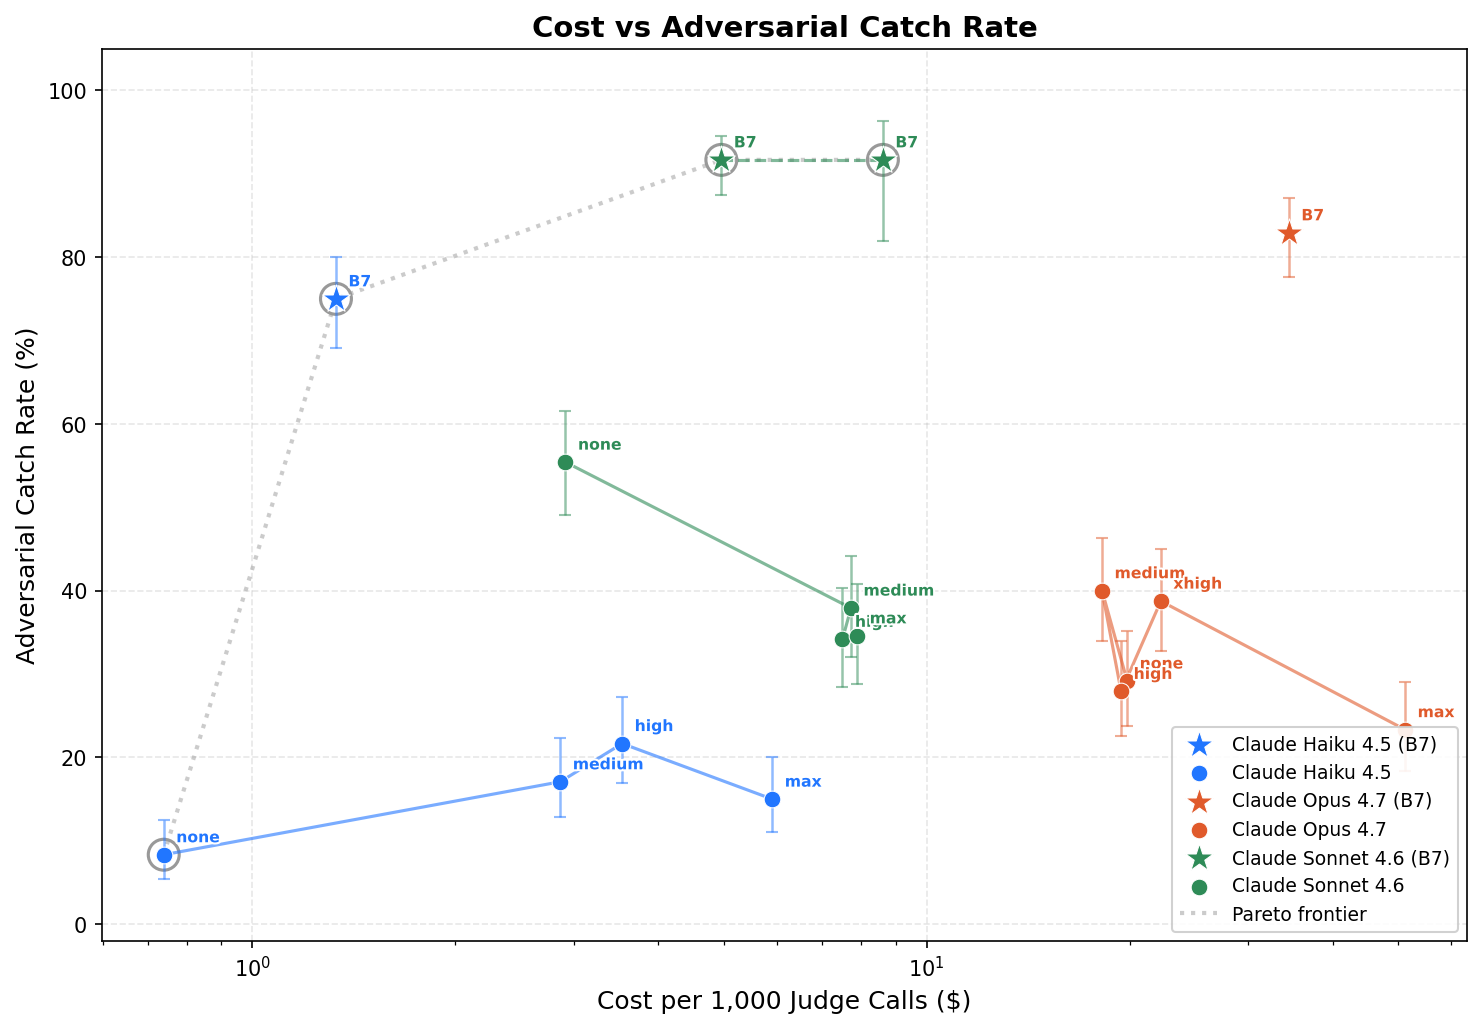
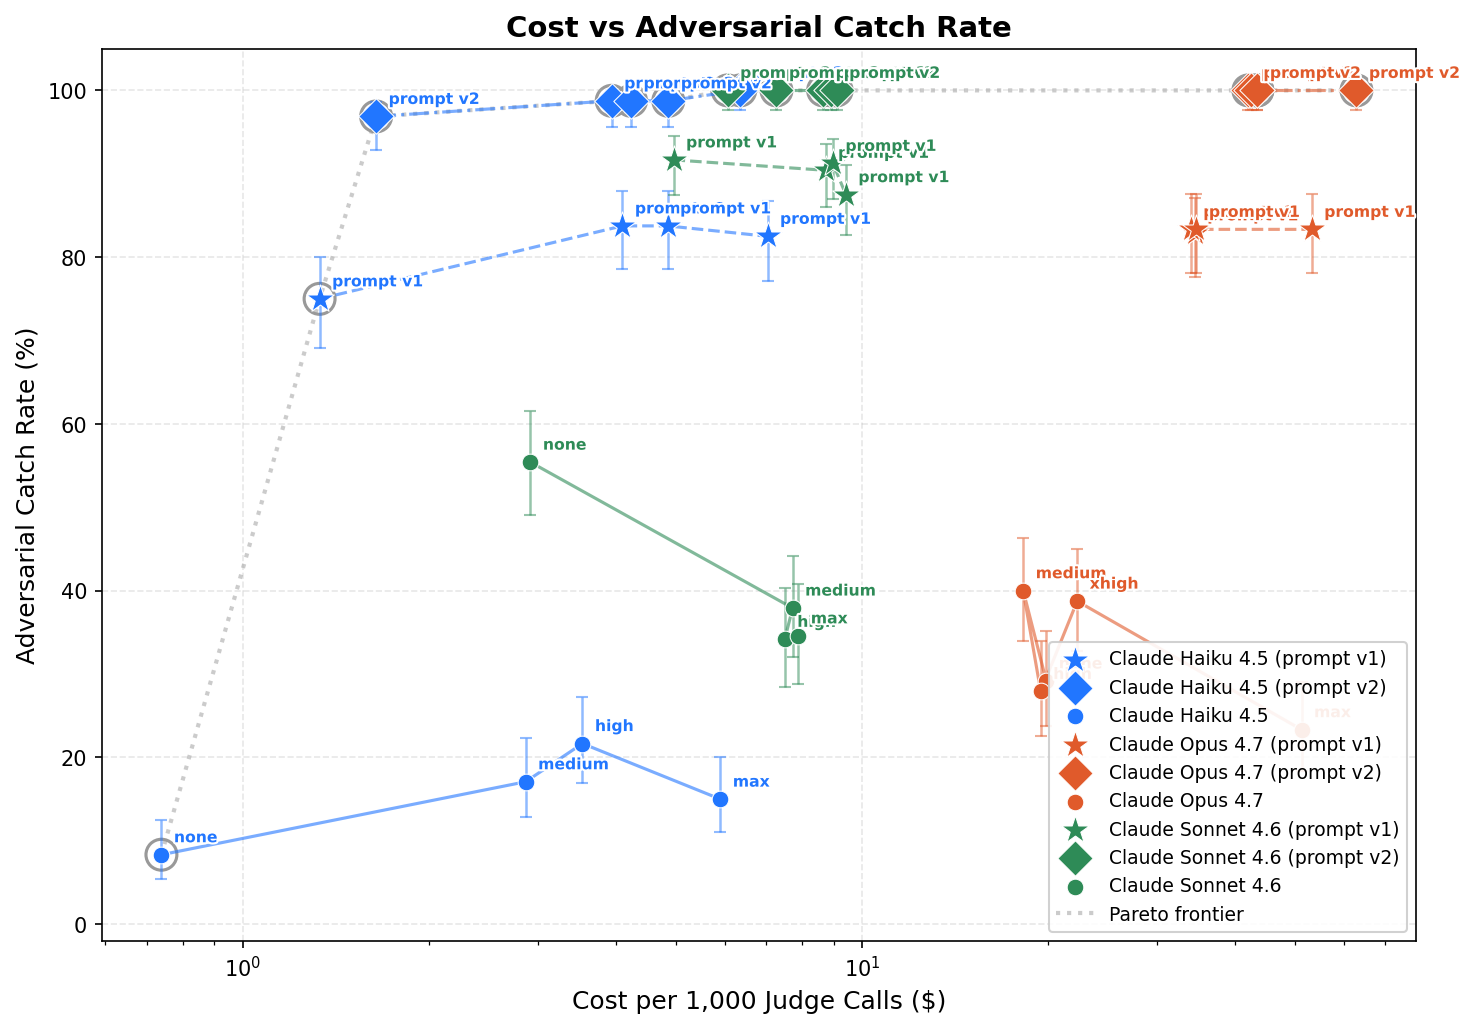
scripts: rename Pareto-plot labels from B7/B7.1 to prompt v1/v2
One-line patch to token-pareto.py: legend suffix " (B7)" / " (B7.1)"
becomes " (prompt v1)" / " (prompt v2)", and per-point annotations
"B7" / "B7.1" become "prompt v1" / "prompt v2". Aligns the figure
output with the paper's prose convention (see Adrian/p15/p15.tex §6.5.1
and the paper's 2026-04-24 peer-review m7/m8 resolution).

Regenerated all three Pareto PNGs (tokens, cost, output-tokens vs catch).

diff --git a/scripts/token-pareto.py b/scripts/token-pareto.py
@@ -256,7 +256,7 @@ def _plot(series, x_key_label, title, out_path, log_x=False):
             is_hardened = is_b7 or is_b71
             marker = "D" if is_b71 else ("*" if is_b7 else "o")
             ms = 12 if is_b71 else (14 if is_b7 else 8)
-            label_suffix = " (B7.1)" if is_b71 else (" (B7)" if is_b7 else "")
+            label_suffix = " (prompt v2)" if is_b71 else (" (prompt v1)" if is_b7 else "")
             linestyle = "-." if is_b71 else ("--" if is_b7 else "-")
 
             # Line connecting effort levels (only for standard, since B7 has
@@ -279,9 +279,9 @@ def _plot(series, x_key_label, title, out_path, log_x=False):
             for x, y, effort in zip(xs, ys, efforts):
                 label_text = effort
                 if is_b71:
-                    label_text = f"B7.1"
+                    label_text = "prompt v2"
                 elif is_b7:
-                    label_text = f"B7"
+                    label_text = "prompt v1"
                 txt = ax.annotate(
                     label_text, (x, y),
                     textcoords="offset points", xytext=(6, 6),
